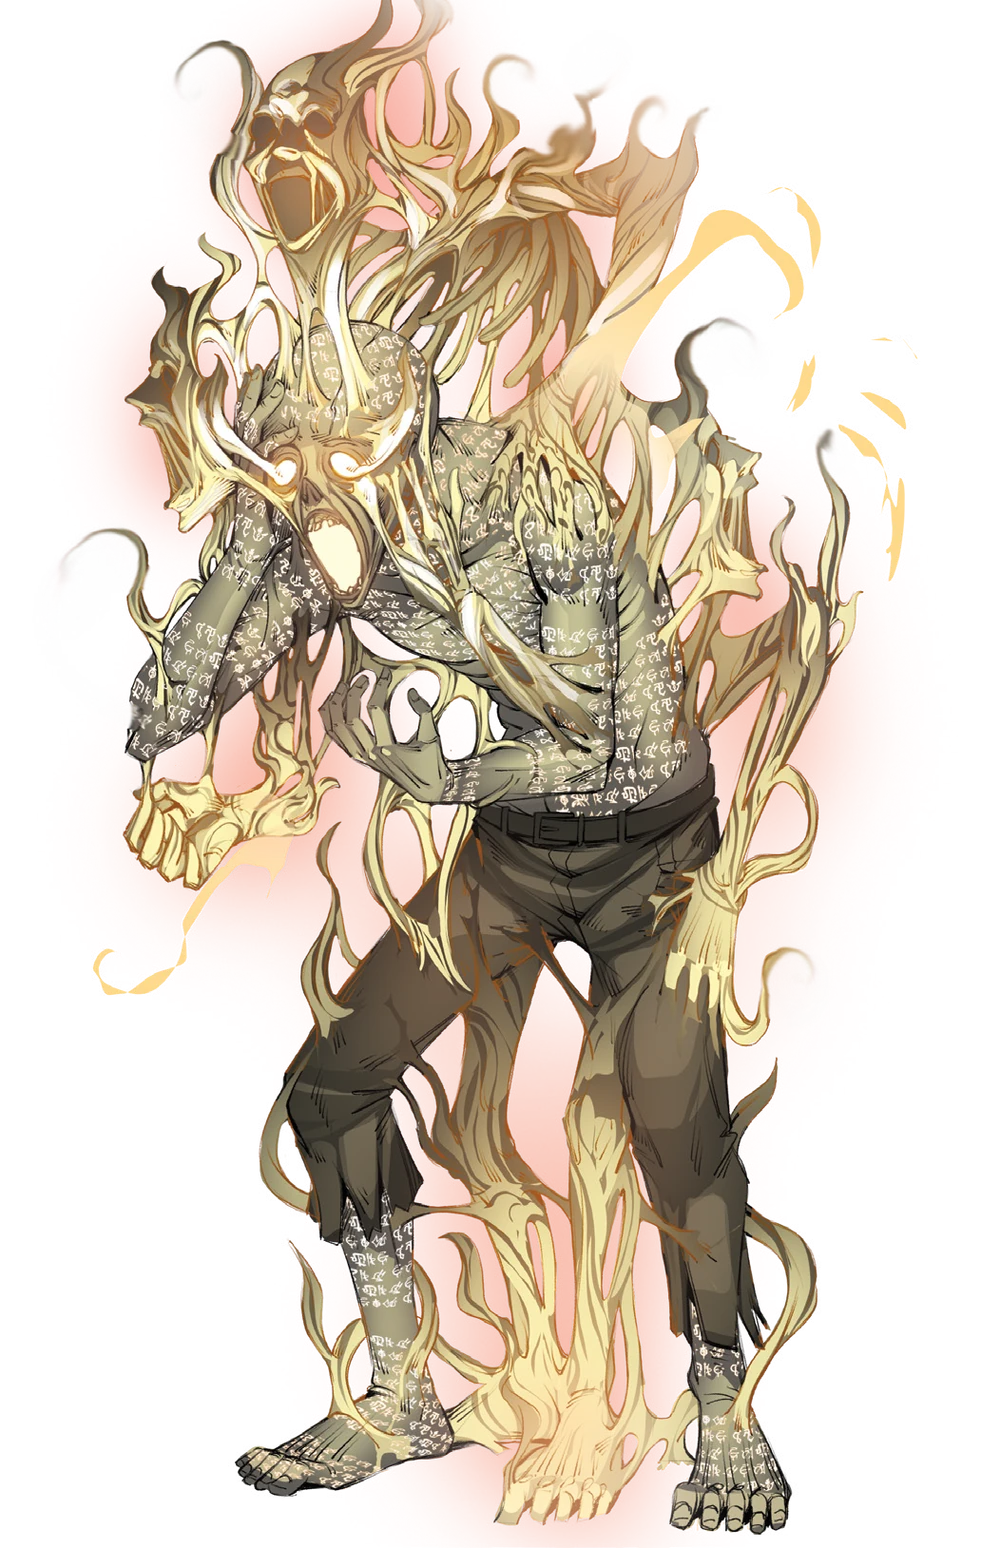
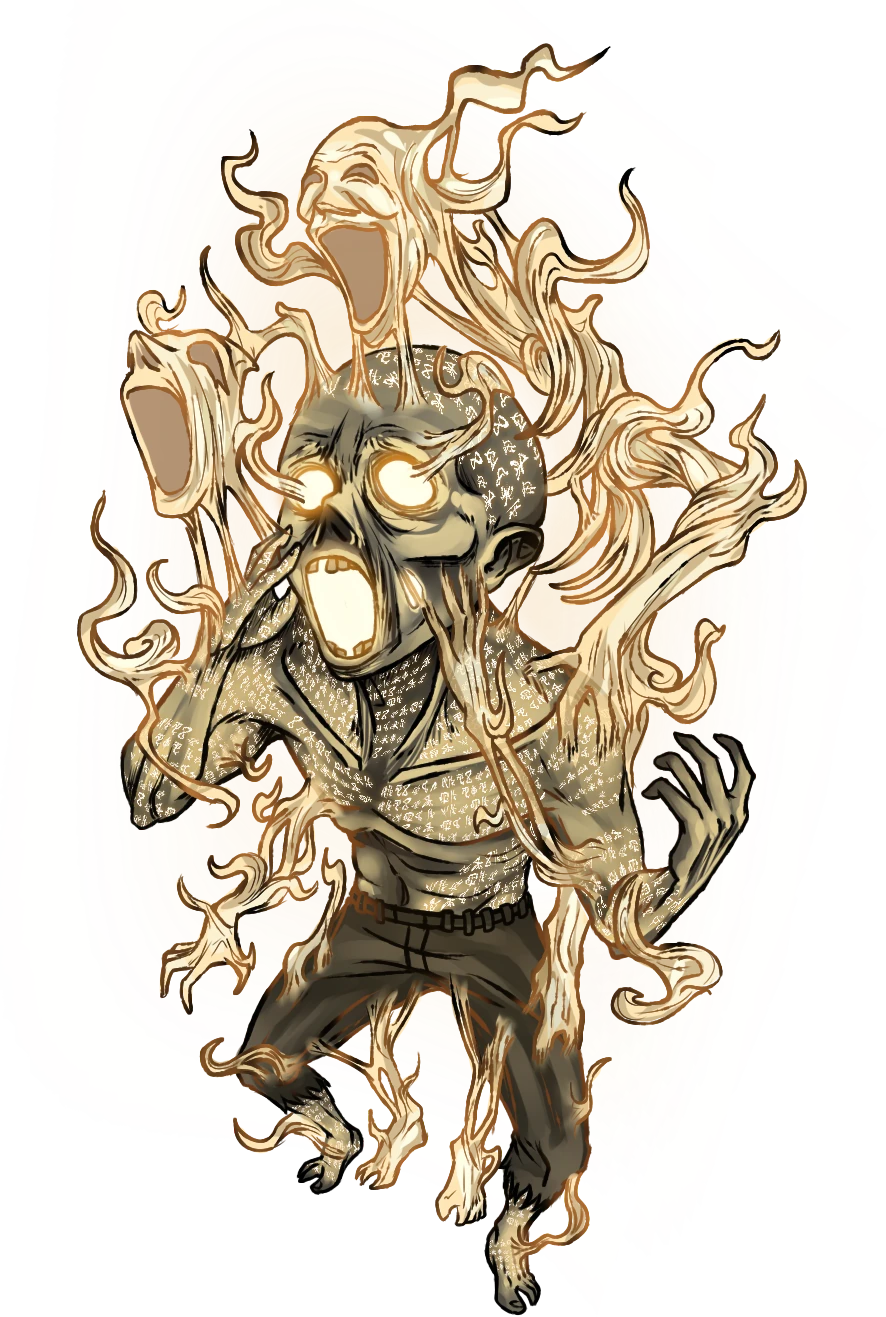
feat: os tokens de fã no bestiário, com as variações como aparências
A peça no mapa de 17 ameaças passa a ser arte de fã. Do Bestiário de Fã
para Fã, de Andrew, Drawmlins e Gosk: Aberração de Carne, Anárquico, Anjo,
Aniquilação, Carniçal Preto da Morte, Ceifador Espiral, Ciborgue, O Deus da
Morte, Estrangeiro, Kerberos, Lembrado, Ocioso, Rastejador Sombrio,
Telopsia e Tempestuoso. De Luck (@The_Luckyest), o Bicho-Papão. Do Ordem
Paranormal Wiki, o Existido flutuante. Os retratos continuam os mesmos.

As variações entram como aparências da mesma ficha, e não como outra
ficha: SB no Carniçal e no Deus da Morte, Variação 2 no Anárquico, Com
espirais na Telopsia e Desligado no Existido. Cada uma troca só a peça no
mapa e fica com o rosto da ficha. O campo `aparencias` é da API 13 do
ATO20; numa versão mais velha ele é ignorado e a ficha entra só com a
Padrão.

O CREDITOS.md diz de quem é cada token e cada aparência. Os da arte de fã
ficam fora da licença do código do plugin: o uso é livre com o crédito, e
eles não se vendem.

diff --git a/bestiario/CREDITOS.md b/bestiario/CREDITOS.md
@@ -4,14 +4,19 @@ De onde foi tirada cada imagem de `bestiario/`. As artes são de Ordem Paranorma
 (Jambô Editora) e de quem as desenhou; o C.R.I.S. e o Ordem Paranormal Wiki são
 os sites de onde os arquivos vieram. Esta lista é regravada a cada ameaça transcrita.
 
+Os tokens do **Bestiário de Fã para Fã** são arte de fã, de Andrew, Drawmlins e Gosk:
+o uso é livre com o crédito aos artistas, e o material não pode ser vendido, plagiado
+nem tomado como de outro. Não entram na licença do código do plugin.
+Os outros tokens de fã têm o artista na linha deles, e também ficam fora dessa licença.
+
 | Ameaça | Papel | Arquivo | Origem | Endereço | Tirada em |
 | --- | --- | --- | --- | --- | --- |
 | O Diabo | retrato | `bestiario/o-diabo-retrato.webp` | C.R.I.S., [ficha](https://crisordemparanormal.com/ameaca/o_diabo) | <https://crisordemparanormal.com/img/creatures/o-diabo-profile.webp> | 2026-10-18 |
 | O Diabo | peça no mapa | `bestiario/o-diabo-miniatura.webp` | Ordem Paranormal Wiki "Miniatura O Diabo em Calamidade.png" | <https://ordemparanormal.fandom.com/pt-br/wiki/Arquivo:Miniatura_O_Diabo_em_Calamidade.png> | 2026-10-18 |
 | Aberração de Carne | retrato | `bestiario/aberracao-de-carne-retrato.webp` | C.R.I.S., [ficha](https://crisordemparanormal.com/ameaca/aberra%C3%A7%C3%A3o_de_carne) | <https://crisordemparanormal.com/img/creatures/aberracao-de-carne-profile.webp> | 2026-10-18 |
-| Aberração de Carne | peça no mapa | `bestiario/aberracao-de-carne-miniatura.webp` | Ordem Paranormal Wiki "Miniatura Aberração de Carne em Vendeta Oculta 2.png" | <https://ordemparanormal.fandom.com/pt-br/wiki/Arquivo:Miniatura_Aberra%C3%A7%C3%A3o_de_Carne_em_Vendeta_Oculta_2.png> | 2026-10-18 |
+| Aberração de Carne | peça no mapa | `bestiario/aberracao-de-carne-miniatura.webp` | Bestiário de Fã para Fã, arte de Drawmlins (@davimlins) "Aberração De Carne - Por Drawmlins.png" | — | 2026-10-25 |
 | Aniquilação | retrato | `bestiario/aniquilacao-retrato.webp` | C.R.I.S., [ficha](https://crisordemparanormal.com/ameaca/aniquila%C3%A7%C3%A3o) | <https://crisordemparanormal.com/img/creatures/aniquilacao-profile.webp> | 2026-10-18 |
-| Aniquilação | peça no mapa | `bestiario/aniquilacao-miniatura.webp` | C.R.I.S., [ficha](https://crisordemparanormal.com/ameaca/aniquila%C3%A7%C3%A3o) | <https://crisordemparanormal.com/img/creatures/aniquilacao.webp> | 2026-10-18 |
+| Aniquilação | peça no mapa | `bestiario/aniquilacao-miniatura.webp` | Bestiário de Fã para Fã, arte de Drawmlins (@davimlins) e Gosk (@Gosk16) "Aniquilacao_bestiario.png" | — | 2026-10-25 |
 | Carente | retrato | `bestiario/carente-retrato.webp` | C.R.I.S., [ficha](https://crisordemparanormal.com/ameaca/carente) | <https://crisordemparanormal.com/img/creatures/carente-profile.webp> | 2026-10-18 |
 | Carente | peça no mapa | `bestiario/carente-miniatura.webp` | C.R.I.S., [ficha](https://crisordemparanormal.com/ameaca/carente) | <https://crisordemparanormal.com/img/creatures/carente.webp> | 2026-10-18 |
 | Dama de Sangue | retrato | `bestiario/dama-de-sangue-retrato.webp` | C.R.I.S., [ficha](https://crisordemparanormal.com/ameaca/dama_de_sangue) | <https://crisordemparanormal.com/img/creatures/dama-de-sangue-profile.webp> | 2026-10-19 |
@@ -19,7 +24,7 @@ os sites de onde os arquivos vieram. Esta lista é regravada a cada ameaça tran
 | Enpap-X | retrato | `bestiario/enpap-x-retrato.webp` | C.R.I.S., [ficha](https://crisordemparanormal.com/ameaca/enpap-x) | <https://crisordemparanormal.com/img/creatures/enpap-x-profile.webp> | 2026-10-19 |
 | Enpap-X | peça no mapa | `bestiario/enpap-x-miniatura.webp` | C.R.I.S., [ficha](https://crisordemparanormal.com/ameaca/enpap-x) | <https://crisordemparanormal.com/img/creatures/enpap-x.webp> | 2026-10-19 |
 | Kerberos | retrato | `bestiario/kerberos-retrato.webp` | C.R.I.S., [ficha](https://crisordemparanormal.com/ameaca/kerberos) | <https://crisordemparanormal.com/img/creatures/kerberos-profile.webp> | 2026-10-19 |
-| Kerberos | peça no mapa | `bestiario/kerberos-miniatura.webp` | C.R.I.S., [ficha](https://crisordemparanormal.com/ameaca/kerberos) | <https://crisordemparanormal.com/img/creatures/kerberos.webp> | 2026-10-19 |
+| Kerberos | peça no mapa | `bestiario/kerberos-miniatura.webp` | Bestiário de Fã para Fã, arte de Drawmlins (@davimlins) "Kerberos - por Drawmlins.png" | — | 2026-10-25 |
 | Minotauro | retrato | `bestiario/minotauro-retrato.webp` | C.R.I.S., [ficha](https://crisordemparanormal.com/ameaca/minotauro) | <https://crisordemparanormal.com/img/creatures/minotauro-profile.webp> | 2026-10-19 |
 | Minotauro | peça no mapa | `bestiario/minotauro-miniatura.webp` | C.R.I.S., [ficha](https://crisordemparanormal.com/ameaca/minotauro) | <https://crisordemparanormal.com/img/creatures/minotauro.webp> | 2026-10-19 |
 | Mulher Afogada | retrato | `bestiario/mulher-afogada-retrato.webp` | C.R.I.S., [ficha](https://crisordemparanormal.com/ameaca/mulher_afogada) | <https://crisordemparanormal.com/img/creatures/mulher-afogada.webp> | 2026-10-19 |
@@ -31,13 +36,15 @@ os sites de onde os arquivos vieram. Esta lista é regravada a cada ameaça tran
 | Zumbi de Sangue Bestial | retrato | `bestiario/zumbi-de-sangue-bestial-retrato.webp` | C.R.I.S., [ficha](https://crisordemparanormal.com/ameaca/zumbi_de_sangue_bestial) | <https://crisordemparanormal.com/img/creatures/zumbi-de-sangue-bestial-profile.webp> | 2026-10-19 |
 | Zumbi de Sangue Bestial | peça no mapa | `bestiario/zumbi-de-sangue-bestial-miniatura.webp` | C.R.I.S., [ficha](https://crisordemparanormal.com/ameaca/zumbi_de_sangue_bestial) | <https://crisordemparanormal.com/img/creatures/zumbi-de-sangue-bestial.webp> | 2026-10-19 |
 | O Deus da Morte | retrato | `bestiario/o-deus-da-morte-retrato.webp` | C.R.I.S., [ficha](https://crisordemparanormal.com/ameaca/o_deus_da_morte) | <https://crisordemparanormal.com/img/creatures/o-deus-da-morte-profile.webp> | 2026-10-19 |
-| O Deus da Morte | peça no mapa | `bestiario/o-deus-da-morte-miniatura.webp` | C.R.I.S., [ficha](https://crisordemparanormal.com/ameaca/o_deus_da_morte) | <https://crisordemparanormal.com/img/creatures/o-deus-da-morte.webp> | 2026-10-19 |
+| O Deus da Morte | peça no mapa | `bestiario/o-deus-da-morte-miniatura.webp` | Bestiário de Fã para Fã, arte de Drawmlins (@davimlins) e Gosk (@Gosk16) "Deus da Morte - por Drawmlins.PNG" | — | 2026-10-24 |
+| O Deus da Morte | peça no mapa, aparência SB | `bestiario/o-deus-da-morte-sb-miniatura.webp` | Bestiário de Fã para Fã, arte de Drawmlins (@davimlins) e Gosk (@Gosk16) "Deus da Morte SB - Por Drawmlins.PNG" | — | 2026-10-24 |
 | Aracnasita | retrato | `bestiario/aracnasita-retrato.webp` | C.R.I.S., [ficha](https://crisordemparanormal.com/ameaca/aracnasita) | <https://crisordemparanormal.com/img/creatures/aracnasita-profile.webp> | 2026-10-19 |
 | Aracnasita | peça no mapa | `bestiario/aracnasita-miniatura.webp` | C.R.I.S., [ficha](https://crisordemparanormal.com/ameaca/aracnasita) | <https://crisordemparanormal.com/img/creatures/aracnasita.webp> | 2026-10-19 |
 | Carniçal Preto da Morte | retrato | `bestiario/carnical-preto-da-morte-retrato.webp` | C.R.I.S., [ficha](https://crisordemparanormal.com/ameaca/carni%C3%A7al_preto_da_morte) | <https://crisordemparanormal.com/img/creatures/carnical-preto-da-morte-profile.webp> | 2026-10-19 |
-| Carniçal Preto da Morte | peça no mapa | `bestiario/carnical-preto-da-morte-miniatura.webp` | C.R.I.S., [ficha](https://crisordemparanormal.com/ameaca/carni%C3%A7al_preto_da_morte) | <https://crisordemparanormal.com/img/creatures/carnical-preto-da-morte.webp> | 2026-10-19 |
+| Carniçal Preto da Morte | peça no mapa | `bestiario/carnical-preto-da-morte-miniatura.webp` | Bestiário de Fã para Fã, arte de Andrew (@AndreeeewFeliz) "Carniçal Preto da Morte - Por Andrew.png" | — | 2026-10-24 |
+| Carniçal Preto da Morte | peça no mapa, aparência SB | `bestiario/carnical-preto-da-morte-sb-miniatura.webp` | Bestiário de Fã para Fã, arte de Andrew (@AndreeeewFeliz) "Carniçal Preto da Morte-SB - Por Andrew.png" | — | 2026-10-24 |
 | Ceifador Espiral | retrato | `bestiario/ceifador-espiral-retrato.webp` | C.R.I.S., [ficha](https://crisordemparanormal.com/ameaca/ceifador_espiral) | <https://crisordemparanormal.com/img/creatures/ceifador-espiral-profile.webp> | 2026-10-19 |
-| Ceifador Espiral | peça no mapa | `bestiario/ceifador-espiral-miniatura.webp` | C.R.I.S., [ficha](https://crisordemparanormal.com/ameaca/ceifador_espiral) | <https://crisordemparanormal.com/img/creatures/ceifador-espiral.webp> | 2026-10-19 |
+| Ceifador Espiral | peça no mapa | `bestiario/ceifador-espiral-miniatura.webp` | Bestiário de Fã para Fã, arte de Andrew (@AndreeeewFeliz) "Ceifador Espiral - Por Andrew.png" | — | 2026-10-24 |
 | Enraizado | retrato | `bestiario/enraizado-retrato.webp` | C.R.I.S., [ficha](https://crisordemparanormal.com/ameaca/enraizado) | <https://crisordemparanormal.com/img/creatures/enraizado-profile.webp> | 2026-10-19 |
 | Enraizado | peça no mapa | `bestiario/enraizado-miniatura.webp` | C.R.I.S., [ficha](https://crisordemparanormal.com/ameaca/enraizado) | <https://crisordemparanormal.com/img/creatures/enraizado.webp> | 2026-10-19 |
 | Escutado | retrato | `bestiario/escutado-retrato.webp` | C.R.I.S., [ficha](https://crisordemparanormal.com/ameaca/escutado) | <https://crisordemparanormal.com/img/creatures/escutado-profile.webp> | 2026-10-19 |
@@ -57,23 +64,24 @@ os sites de onde os arquivos vieram. Esta lista é regravada a cada ameaça tran
 | Máscara do Desespero | retrato | `bestiario/mascara-do-desespero-retrato.webp` | C.R.I.S., [ficha](https://crisordemparanormal.com/ameaca/m%C3%A1scara_do_desespero) | <https://crisordemparanormal.com/img/creatures/mascara-do-desespero-profile.webp> | 2026-10-19 |
 | Máscara do Desespero | peça no mapa | `bestiario/mascara-do-desespero-miniatura.webp` | C.R.I.S., [ficha](https://crisordemparanormal.com/ameaca/m%C3%A1scara_do_desespero) | <https://crisordemparanormal.com/img/creatures/mascara-do-desespero.webp> | 2026-10-19 |
 | Anjo | retrato | `bestiario/anjo-retrato.webp` | C.R.I.S., [ficha](https://crisordemparanormal.com/ameaca/anjo) | <https://crisordemparanormal.com/img/creatures/anjo-profile.webp> | 2026-10-19 |
-| Anjo | peça no mapa | `bestiario/anjo-miniatura.webp` | C.R.I.S., [ficha](https://crisordemparanormal.com/ameaca/anjo) | <https://crisordemparanormal.com/img/creatures/anjo.webp> | 2026-10-19 |
+| Anjo | peça no mapa | `bestiario/anjo-miniatura.webp` | Bestiário de Fã para Fã, arte de Drawmlins (@davimlins) e Gosk (@Gosk16) "Anjo - por Drawmlins.png" | — | 2026-10-24 |
 | Bicho-Papão | retrato | `bestiario/bicho-papao-retrato.webp` | C.R.I.S., [ficha](https://crisordemparanormal.com/ameaca/bicho-pap%C3%A3o) | <https://crisordemparanormal.com/img/creatures/bicho-papao-profile.webp> | 2026-10-19 |
-| Bicho-Papão | peça no mapa | `bestiario/bicho-papao-miniatura.webp` | C.R.I.S., [ficha](https://crisordemparanormal.com/ameaca/bicho-pap%C3%A3o) | <https://crisordemparanormal.com/img/creatures/bicho-papao.webp> | 2026-10-19 |
+| Bicho-Papão | peça no mapa | `bestiario/bicho-papao-miniatura.webp` | Arte de fã de Luck (@The_Luckyest), postada no X "Bicho-Papão.png" | <https://x.com/The_Luckyest> | 2026-10-25 |
 | Espreitador | retrato | `bestiario/espreitador-retrato.webp` | C.R.I.S., [ficha](https://crisordemparanormal.com/ameaca/espreitador) | <https://crisordemparanormal.com/img/creatures/espreitador-profile.webp> | 2026-10-19 |
 | Espreitador | peça no mapa | `bestiario/espreitador-miniatura.webp` | C.R.I.S., [ficha](https://crisordemparanormal.com/ameaca/espreitador) | <https://crisordemparanormal.com/img/creatures/espreitador.webp> | 2026-10-19 |
 | Estrangeiro | retrato | `bestiario/estrangeiro-retrato.webp` | C.R.I.S., [ficha](https://crisordemparanormal.com/ameaca/estrangeiro) | <https://crisordemparanormal.com/img/creatures/estrangeiro-profile.webp> | 2026-10-19 |
-| Estrangeiro | peça no mapa | `bestiario/estrangeiro-miniatura.webp` | C.R.I.S., [ficha](https://crisordemparanormal.com/ameaca/estrangeiro) | <https://crisordemparanormal.com/img/creatures/estrangeiro.webp> | 2026-10-19 |
+| Estrangeiro | peça no mapa | `bestiario/estrangeiro-miniatura.webp` | Bestiário de Fã para Fã, arte de Andrew (@AndreeeewFeliz) "Estrangeiro - Por Andrew.png" | — | 2026-10-24 |
 | Existido | retrato | `bestiario/existido-retrato.webp` | C.R.I.S., [ficha](https://crisordemparanormal.com/ameaca/existido) | <https://crisordemparanormal.com/img/creatures/existido-profile.webp> | 2026-10-19 |
-| Existido | peça no mapa | `bestiario/existido-miniatura.webp` | C.R.I.S., [ficha](https://crisordemparanormal.com/ameaca/existido) | <https://crisordemparanormal.com/img/creatures/existido.webp> | 2026-10-19 |
+| Existido | peça no mapa | `bestiario/existido-miniatura.webp` | Ordem Paranormal Wiki "Miniatura Existido flutuante brilhando em Desconjuração.png" | <https://ordemparanormal.fandom.com/pt-br/wiki/Arquivo:Miniatura_Existido_flutuante_brilhando_em_Desconjura%C3%A7%C3%A3o.png> | 2026-10-25 |
+| Existido | peça no mapa, aparência Desligado | `bestiario/existido-desligado-miniatura.webp` | Ordem Paranormal Wiki "Miniatura Existido Flutuante em Desconjuração.png" | <https://ordemparanormal.fandom.com/pt-br/wiki/Arquivo:Miniatura_Existido_Flutuante_em_Desconjura%C3%A7%C3%A3o.png> | 2026-10-25 |
 | Lembrado | retrato | `bestiario/lembrado-retrato.webp` | C.R.I.S., [ficha](https://crisordemparanormal.com/ameaca/lembrado) | <https://crisordemparanormal.com/img/creatures/lembrado-profile.webp> | 2026-10-19 |
-| Lembrado | peça no mapa | `bestiario/lembrado-miniatura.webp` | C.R.I.S., [ficha](https://crisordemparanormal.com/ameaca/lembrado) | <https://crisordemparanormal.com/img/creatures/lembrado.webp> | 2026-10-19 |
+| Lembrado | peça no mapa | `bestiario/lembrado-miniatura.webp` | Bestiário de Fã para Fã, arte de Andrew (@AndreeeewFeliz) "Lembrado - Por Andrew.png" | — | 2026-10-24 |
 | Ocioso | retrato | `bestiario/ocioso-retrato.webp` | C.R.I.S., [ficha](https://crisordemparanormal.com/ameaca/ocioso) | <https://crisordemparanormal.com/img/creatures/ocioso-profile.webp> | 2026-10-19 |
-| Ocioso | peça no mapa | `bestiario/ocioso-miniatura.webp` | C.R.I.S., [ficha](https://crisordemparanormal.com/ameaca/ocioso) | <https://crisordemparanormal.com/img/creatures/ocioso.webp> | 2026-10-19 |
+| Ocioso | peça no mapa | `bestiario/ocioso-miniatura.webp` | Bestiário de Fã para Fã, arte de Andrew (@AndreeeewFeliz) "Ocioso - Por Andrew.png" | — | 2026-10-24 |
 | Parasita de Culpa | retrato | `bestiario/parasita-de-culpa-retrato.webp` | C.R.I.S., [ficha](https://crisordemparanormal.com/ameaca/parasita_de_culpa) | <https://crisordemparanormal.com/img/creatures/parasita-de-culpa-profile.webp> | 2026-10-19 |
 | Parasita de Culpa | peça no mapa | `bestiario/parasita-de-culpa-miniatura.webp` | C.R.I.S., [ficha](https://crisordemparanormal.com/ameaca/parasita_de_culpa) | <https://crisordemparanormal.com/img/creatures/parasita-de-culpa.webp> | 2026-10-19 |
 | Rastejador Sombrio | retrato | `bestiario/rastejador-sombrio-retrato.webp` | C.R.I.S., [ficha](https://crisordemparanormal.com/ameaca/rastejador_sombrio) | <https://crisordemparanormal.com/img/creatures/rastejador-sombrio-profile.webp> | 2026-10-19 |
-| Rastejador Sombrio | peça no mapa | `bestiario/rastejador-sombrio-miniatura.webp` | C.R.I.S., [ficha](https://crisordemparanormal.com/ameaca/rastejador_sombrio) | <https://crisordemparanormal.com/img/creatures/rastejador-sombrio.webp> | 2026-10-19 |
+| Rastejador Sombrio | peça no mapa | `bestiario/rastejador-sombrio-miniatura.webp` | Bestiário de Fã para Fã, arte de Drawmlins (@davimlins) "Rastejador Sombrio - por Drawmlins.png" | — | 2026-10-24 |
 | Silhueta | retrato | `bestiario/silhueta-retrato.webp` | C.R.I.S., [ficha](https://crisordemparanormal.com/ameaca/silhueta) | <https://crisordemparanormal.com/img/creatures/silhueta-profile.webp> | 2026-10-19 |
 | Silhueta | peça no mapa | `bestiario/silhueta-miniatura.webp` | C.R.I.S., [ficha](https://crisordemparanormal.com/ameaca/silhueta) | <https://crisordemparanormal.com/img/creatures/silhueta.webp> | 2026-10-19 |
 | Vulto | retrato | `bestiario/vulto-retrato.webp` | C.R.I.S., [ficha](https://crisordemparanormal.com/ameaca/vulto) | <https://crisordemparanormal.com/img/creatures/vulto-profile.webp> | 2026-10-19 |
@@ -81,7 +89,8 @@ os sites de onde os arquivos vieram. Esta lista é regravada a cada ameaça tran
 | Anfitrião | retrato | `bestiario/anfitriao-retrato.webp` | C.R.I.S., [ficha](https://crisordemparanormal.com/ameaca/anfitri%C3%A3o) | <https://crisordemparanormal.com/img/creatures/anfitriao-profile.webp> | 2026-10-19 |
 | Anfitrião | peça no mapa | `bestiario/anfitriao-miniatura.webp` | C.R.I.S., [ficha](https://crisordemparanormal.com/ameaca/anfitri%C3%A3o) | <https://crisordemparanormal.com/img/creatures/anfitriao.webp> | 2026-10-19 |
 | Anárquico | retrato | `bestiario/anarquico-retrato.webp` | C.R.I.S., [ficha](https://crisordemparanormal.com/ameaca/an%C3%A1rquico) | <https://crisordemparanormal.com/img/creatures/anarquico-profile.webp> | 2026-10-19 |
-| Anárquico | peça no mapa | `bestiario/anarquico-miniatura.webp` | C.R.I.S., [ficha](https://crisordemparanormal.com/ameaca/an%C3%A1rquico) | <https://crisordemparanormal.com/img/creatures/anarquico.webp> | 2026-10-19 |
+| Anárquico | peça no mapa | `bestiario/anarquico-miniatura.webp` | Bestiário de Fã para Fã, arte de Andrew (@AndreeeewFeliz) "Anarquico Variação 1 - Por Andrew.png" | — | 2026-10-25 |
+| Anárquico | peça no mapa, aparência Variação 2 | `bestiario/anarquico-variacao-2-miniatura.webp` | Bestiário de Fã para Fã, arte de Andrew (@AndreeeewFeliz) "Anarquico Variação 2 - Por Andrew.png" | — | 2026-10-25 |
 | Anárquico Descontrolado | retrato | `bestiario/anarquico-descontrolado-retrato.webp` | C.R.I.S., [ficha](https://crisordemparanormal.com/ameaca/an%C3%A1rquico_descontrolado) | <https://crisordemparanormal.com/img/creatures/anarquico-descontrolado-profile.webp> | 2026-10-19 |
 | Anárquico Descontrolado | peça no mapa | `bestiario/anarquico-descontrolado-miniatura.webp` | C.R.I.S., [ficha](https://crisordemparanormal.com/ameaca/an%C3%A1rquico_descontrolado) | <https://crisordemparanormal.com/img/creatures/anarquico-descontrolado.webp> | 2026-10-19 |
 | Anomalia | retrato | `bestiario/anomalia-retrato.webp` | C.R.I.S., [ficha](https://crisordemparanormal.com/ameaca/anomalia) | <https://crisordemparanormal.com/img/creatures/anomalia-profile.webp> | 2026-10-19 |
@@ -89,7 +98,7 @@ os sites de onde os arquivos vieram. Esta lista é regravada a cada ameaça tran
 | Anomiático | retrato | `bestiario/anomiatico-retrato.webp` | C.R.I.S., [ficha](https://crisordemparanormal.com/ameaca/anomi%C3%A1tico) | <https://crisordemparanormal.com/img/creatures/anomiatico-profile.webp> | 2026-10-19 |
 | Anomiático | peça no mapa | `bestiario/anomiatico-miniatura.webp` | C.R.I.S., [ficha](https://crisordemparanormal.com/ameaca/anomi%C3%A1tico) | <https://crisordemparanormal.com/img/creatures/anomiatico.webp> | 2026-10-19 |
 | Ciborgue | retrato | `bestiario/ciborgue-retrato.webp` | C.R.I.S., [ficha](https://crisordemparanormal.com/ameaca/ciborgue) | <https://crisordemparanormal.com/img/creatures/ciborgue-profile.webp> | 2026-10-19 |
-| Ciborgue | peça no mapa | `bestiario/ciborgue-miniatura.webp` | C.R.I.S., [ficha](https://crisordemparanormal.com/ameaca/ciborgue) | <https://crisordemparanormal.com/img/creatures/ciborgue.webp> | 2026-10-19 |
+| Ciborgue | peça no mapa | `bestiario/ciborgue-miniatura.webp` | Bestiário de Fã para Fã, arte de Andrew (@AndreeeewFeliz) "Ciborgue - Por Andrew.png" | — | 2026-10-25 |
 | Infecticídio | retrato | `bestiario/infecticidio-retrato.webp` | C.R.I.S., [ficha](https://crisordemparanormal.com/ameaca/infectic%C3%ADdio) | <https://crisordemparanormal.com/img/creatures/infecticidio-profile.webp> | 2026-10-19 |
 | Infecticídio | peça no mapa | `bestiario/infecticidio-miniatura.webp` | C.R.I.S., [ficha](https://crisordemparanormal.com/ameaca/infectic%C3%ADdio) | <https://crisordemparanormal.com/img/creatures/infecticidio.webp> | 2026-10-19 |
 | Perturbado de Energia | retrato | `bestiario/perturbado-de-energia-retrato.webp` | C.R.I.S., [ficha](https://crisordemparanormal.com/ameaca/perturbado_de_energia) | <https://crisordemparanormal.com/img/creatures/perturbado-de-energia-profile.webp> | 2026-10-19 |
@@ -97,9 +106,10 @@ os sites de onde os arquivos vieram. Esta lista é regravada a cada ameaça tran
 | Sukkalgir | retrato | `bestiario/sukkalgir-retrato.webp` | C.R.I.S., [ficha](https://crisordemparanormal.com/ameaca/sukkalgir) | <https://crisordemparanormal.com/img/creatures/sukkalgir-profile.webp> | 2026-10-19 |
 | Sukkalgir | peça no mapa | `bestiario/sukkalgir-miniatura.webp` | C.R.I.S., [ficha](https://crisordemparanormal.com/ameaca/sukkalgir) | <https://crisordemparanormal.com/img/creatures/sukkalgir.webp> | 2026-10-19 |
 | Telopsia | retrato | `bestiario/telopsia-retrato.webp` | C.R.I.S., [ficha](https://crisordemparanormal.com/ameaca/telopsia) | <https://crisordemparanormal.com/img/creatures/telopsia-profile.webp> | 2026-10-19 |
-| Telopsia | peça no mapa | `bestiario/telopsia-miniatura.webp` | C.R.I.S., [ficha](https://crisordemparanormal.com/ameaca/telopsia) | <https://crisordemparanormal.com/img/creatures/telopsia.webp> | 2026-10-19 |
+| Telopsia | peça no mapa | `bestiario/telopsia-miniatura.webp` | Bestiário de Fã para Fã, arte de Andrew (@AndreeeewFeliz) "Telopsia - Por Andrew.png" | — | 2026-10-25 |
+| Telopsia | peça no mapa, aparência Com espirais | `bestiario/telopsia-com-espirais-miniatura.webp` | Bestiário de Fã para Fã, arte de Andrew (@AndreeeewFeliz) e Drawmlins (@davimlins) "Telopsia com espirais - por Andrew e Drawmlins.png" | — | 2026-10-25 |
 | Tempestuoso | retrato | `bestiario/tempestuoso-retrato.webp` | C.R.I.S., [ficha](https://crisordemparanormal.com/ameaca/tempestuoso) | <https://crisordemparanormal.com/img/creatures/tempestuoso-profile.webp> | 2026-10-19 |
-| Tempestuoso | peça no mapa | `bestiario/tempestuoso-miniatura.webp` | C.R.I.S., [ficha](https://crisordemparanormal.com/ameaca/tempestuoso) | <https://crisordemparanormal.com/img/creatures/tempestuoso.webp> | 2026-10-19 |
+| Tempestuoso | peça no mapa | `bestiario/tempestuoso-miniatura.webp` | Bestiário de Fã para Fã, arte de Drawmlins (@davimlins) "Tempestuoso - por Drawmlins.png" | — | 2026-10-25 |
 | Viajante | retrato | `bestiario/viajante-retrato.webp` | C.R.I.S., [ficha](https://crisordemparanormal.com/ameaca/viajante) | <https://crisordemparanormal.com/img/creatures/viajante-profile.webp> | 2026-10-19 |
 | Viajante | peça no mapa | `bestiario/viajante-miniatura.webp` | C.R.I.S., [ficha](https://crisordemparanormal.com/ameaca/viajante) | <https://crisordemparanormal.com/img/creatures/viajante.webp> | 2026-10-19 |
 | Degolificada | retrato | `bestiario/degolificada-retrato.webp` | C.R.I.S., [ficha](https://crisordemparanormal.com/ameaca/degolificada) | <https://crisordemparanormal.com/img/creatures/degolificada-profile.webp> | 2026-10-19 |
